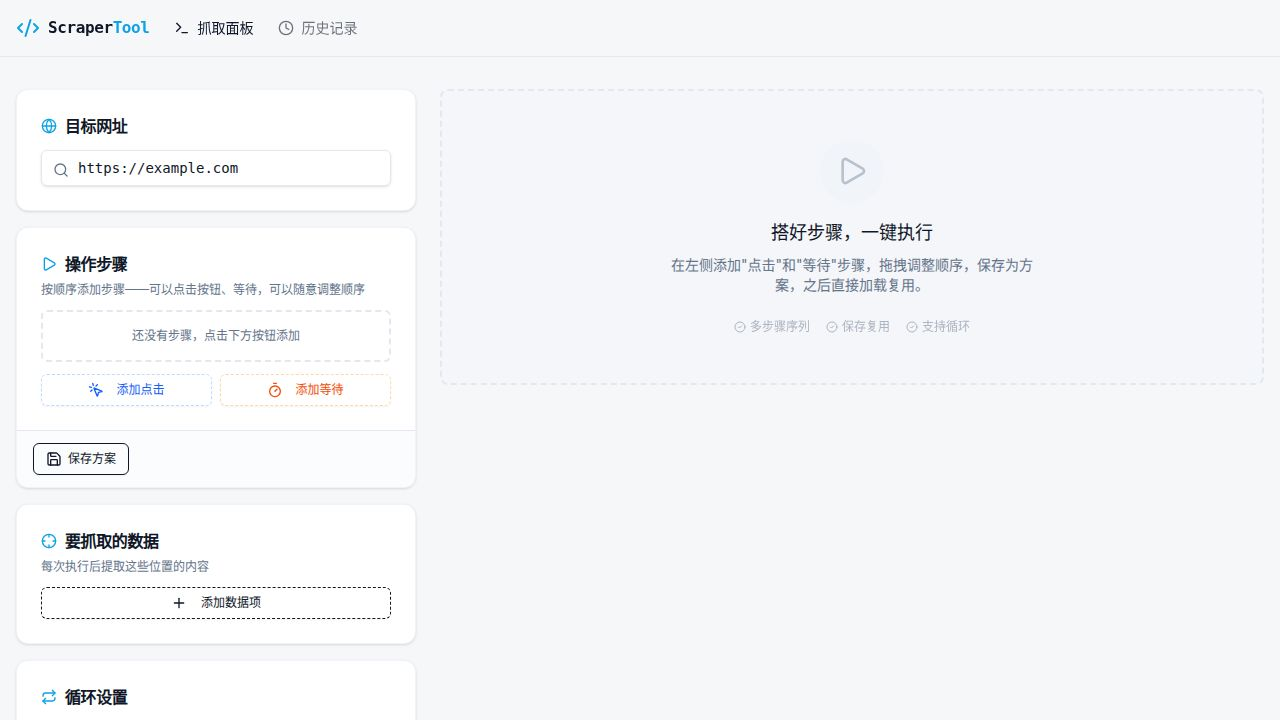
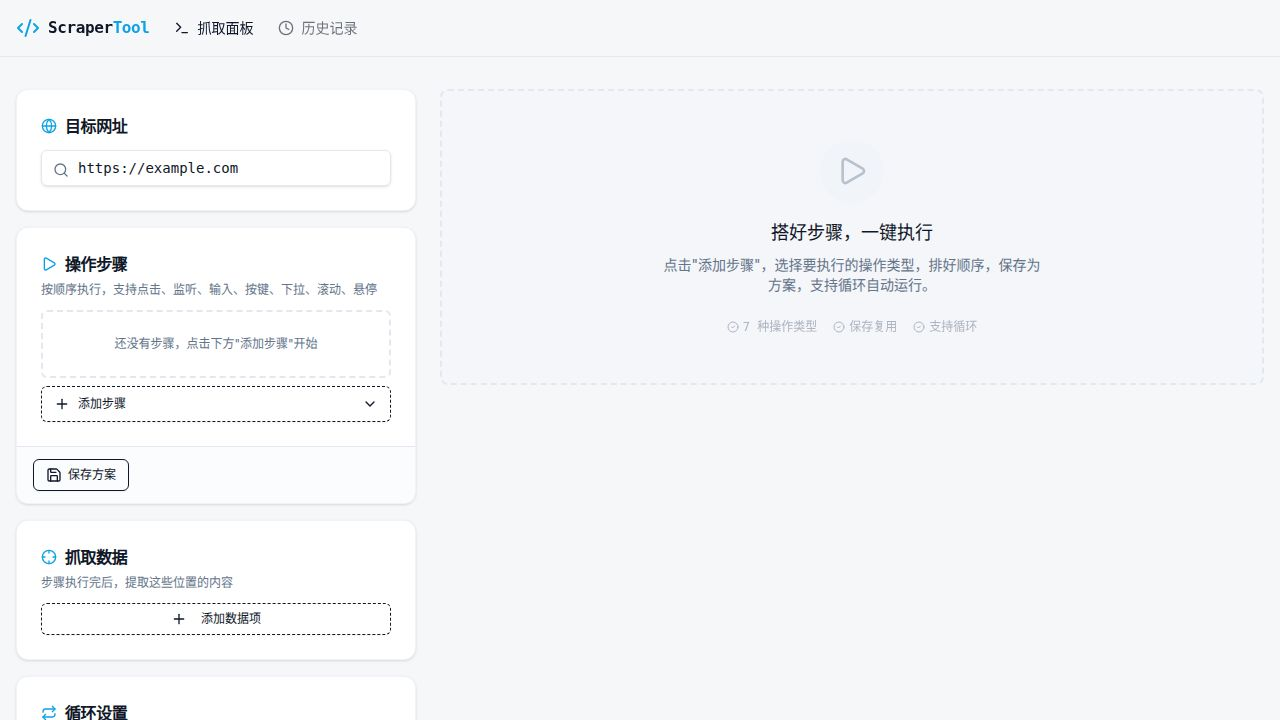
Add cross-website data extraction and population capabilities
Introduce new 'navigate' and 'capture' step types for cross-site scraping. 'Navigate' allows switching between websites within the same session, while 'capture' reads element data and stores it as a variable. The 'type' step is enhanced to support referencing these captured variables using `${varName}` syntax. This enables workflows where data from one site can be automatically filled into another.

Replit-Commit-Author: Agent
Replit-Commit-Session-Id: a0e9f660-d92f-431c-ae68-7a4e4ba918e7
Replit-Commit-Checkpoint-Type: full_checkpoint
Replit-Commit-Event-Id: 60a98646-9032-41d8-822b-ade838222687
Replit-Commit-Screenshot-Url: https://storage.googleapis.com/screenshot-production-us-central1/eb1950e1-c633-4936-86f3-e5783db79001/a0e9f660-d92f-431c-ae68-7a4e4ba918e7/aN5R0Al
Replit-Helium-Checkpoint-Created: true

diff --git a/artifacts/scraper-tool/src/pages/home.tsx b/artifacts/scraper-tool/src/pages/home.tsx
@@ -25,13 +25,15 @@ import type { ScrapeResult } from "@workspace/api-client-react/src/generated/api
 // ─── Step definitions ────────────────────────────────────────────────────────
 
 const STEP_TYPES = [
-  { type: "click",  label: "点击",     icon: MousePointerClick, color: "blue",   desc: "点击页面上的某个按钮或链接" },
-  { type: "listen", label: "监听",     icon: Eye,               color: "purple", desc: "等到某个元素出现/消失，或网络空闲" },
-  { type: "type",   label: "输入文字", icon: Type,              color: "green",  desc: "在输入框里填入文字" },
-  { type: "key",    label: "按键",     icon: Keyboard,          color: "orange", desc: "模拟键盘按键，如回车、Tab" },
-  { type: "select", label: "下拉选择", icon: ListOrdered,       color: "cyan",   desc: "选择下拉框中的某个选项" },
-  { type: "scroll", label: "滚动",     icon: MoveDown,          color: "pink",   desc: "滚动到指定元素位置" },
-  { type: "hover",  label: "悬停",     icon: Eye,               color: "yellow", desc: "将鼠标悬停在元素上" },
+  { type: "click",    label: "点击",     icon: MousePointerClick, color: "blue",   desc: "点击页面上的某个按钮或链接" },
+  { type: "listen",   label: "监听",     icon: Eye,               color: "purple", desc: "等到某个元素出现/消失，或网络空闲" },
+  { type: "capture",  label: "读取保存", icon: Crosshair,         color: "teal",   desc: "读取元素内容，保存为变量供后续步骤使用" },
+  { type: "navigate", label: "跳转网址", icon: Globe,             color: "indigo", desc: "在同一浏览器内跳转到另一个网址" },
+  { type: "type",     label: "输入文字", icon: Type,              color: "green",  desc: "在输入框填入文字，支持 ${变量名} 引用保存的值" },
+  { type: "key",      label: "按键",     icon: Keyboard,          color: "orange", desc: "模拟键盘按键，如回车、Tab" },
+  { type: "select",   label: "下拉选择", icon: ListOrdered,       color: "cyan",   desc: "选择下拉框中的某个选项" },
+  { type: "scroll",   label: "滚动",     icon: MoveDown,          color: "pink",   desc: "滚动到指定元素位置" },
+  { type: "hover",    label: "悬停",     icon: Eye,               color: "yellow", desc: "将鼠标悬停在元素上" },
 ] as const;
 
 type StepType = typeof STEP_TYPES[number]["type"];
@@ -39,6 +41,8 @@ type StepType = typeof STEP_TYPES[number]["type"];
 const COLOR_MAP: Record<string, { bg: string; border: string; bar: string; btn: string }> = {
   blue:   { bg: "bg-blue-50/60",   border: "border-blue-200",  bar: "bg-blue-400",   btn: "text-blue-600 border-blue-200 hover:bg-blue-50"   },
   purple: { bg: "bg-purple-50/60", border: "border-purple-200",bar: "bg-purple-400", btn: "text-purple-600 border-purple-200 hover:bg-purple-50"},
+  teal:   { bg: "bg-teal-50/60",   border: "border-teal-200",  bar: "bg-teal-400",   btn: "text-teal-600 border-teal-200 hover:bg-teal-50"   },
+  indigo: { bg: "bg-indigo-50/60", border: "border-indigo-200",bar: "bg-indigo-400", btn: "text-indigo-600 border-indigo-200 hover:bg-indigo-50"},
   green:  { bg: "bg-green-50/60",  border: "border-green-200", bar: "bg-green-400",  btn: "text-green-600 border-green-200 hover:bg-green-50" },
   orange: { bg: "bg-orange-50/60", border: "border-orange-200",bar: "bg-orange-400", btn: "text-orange-600 border-orange-200 hover:bg-orange-50"},
   cyan:   { bg: "bg-cyan-50/60",   border: "border-cyan-200",  bar: "bg-cyan-400",   btn: "text-cyan-600 border-cyan-200 hover:bg-cyan-50"   },
@@ -51,7 +55,7 @@ const COMMON_KEYS = ["Enter", "Tab", "Escape", "Space", "ArrowDown", "ArrowUp", 
 // ─── Zod schemas ─────────────────────────────────────────────────────────────
 
 const stepSchema = z.object({
-  type: z.enum(["click", "listen", "type", "key", "select", "scroll", "hover"]),
+  type: z.enum(["click", "listen", "type", "key", "select", "scroll", "hover", "navigate", "capture"]),
   selector: z.string().optional(),
   waitMs: z.number().optional(),
   waitForPopupClose: z.boolean().optional(),
@@ -61,6 +65,8 @@ const stepSchema = z.object({
   text: z.string().optional(),
   key: z.string().optional(),
   value: z.string().optional(),
+  url: z.string().optional(),
+  varName: z.string().optional(),
 });
 
 type Step = z.infer<typeof stepSchema>;
@@ -96,13 +102,15 @@ const sleep = (ms: number) => new Promise<void>((r) => setTimeout(r, ms));
 // ─── Default step factories ───────────────────────────────────────────────────
 
 const defaults: Record<StepType, Partial<Step>> = {
-  click:  { type: "click",  selector: "", waitMs: 1000, waitForPopupClose: false, popupTimeoutMs: 30000 },
-  listen: { type: "listen", selector: "", listenFor: "appear", listenTimeout: 15000 },
-  type:   { type: "type",   selector: "", text: "" },
-  key:    { type: "key",    key: "Enter", waitMs: 500 },
-  select: { type: "select", selector: "", value: "" },
-  scroll: { type: "scroll", selector: "" },
-  hover:  { type: "hover",  selector: "", waitMs: 500 },
+  click:    { type: "click",    selector: "", waitMs: 1000, waitForPopupClose: false, popupTimeoutMs: 30000 },
+  listen:   { type: "listen",   selector: "", listenFor: "appear", listenTimeout: 15000 },
+  capture:  { type: "capture",  selector: "", varName: "" },
+  navigate: { type: "navigate", url: "", waitMs: 1500 },
+  type:     { type: "type",     selector: "", text: "" },
+  key:      { type: "key",      key: "Enter", waitMs: 500 },
+  select:   { type: "select",   selector: "", value: "" },
+  scroll:   { type: "scroll",   selector: "" },
+  hover:    { type: "hover",    selector: "", waitMs: 500 },
 };
 
 // ─── Main component ───────────────────────────────────────────────────────────
@@ -288,6 +296,34 @@ export default function Home() {
                             )} />
                           </>}
 
+                          {s?.type === "capture" && <>
+                            <Field label="要读取的元素选择器">
+                              <Input placeholder="例：#shortid 或 .price-value" className="font-mono text-xs h-7"
+                                {...form.register(`steps.${index}.selector`)} />
+                            </Field>
+                            <Field label="保存为变量名">
+                              <Input placeholder="例：邮箱 或 当前价格" className="text-xs h-7"
+                                {...form.register(`steps.${index}.varName`)} />
+                            </Field>
+                            <p className="text-xs text-muted-foreground bg-teal-50 border border-teal-200 rounded px-2 py-1.5">
+                              保存后，在"输入文字"步骤里用 <code className="font-mono">{"${变量名}"}</code> 引用这个值
+                            </p>
+                          </>}
+
+                          {s?.type === "navigate" && <>
+                            <Field label="跳转到的网址">
+                              <Input placeholder="例：https://b-website.com/form" className="font-mono text-xs h-7"
+                                {...form.register(`steps.${index}.url`)} />
+                            </Field>
+                            <Field label="跳转后等待页面加载（毫秒）">
+                              <Input type="number" className="font-mono text-xs h-7"
+                                {...form.register(`steps.${index}.waitMs`, { valueAsNumber: true })} />
+                            </Field>
+                            <p className="text-xs text-muted-foreground bg-indigo-50 border border-indigo-200 rounded px-2 py-1.5">
+                              在同一个浏览器窗口内跳转，之前保存的变量依然有效
+                            </p>
+                          </>}
+
                           {s?.type === "listen" && <>
                             <Field label="监听条件">
                               <select className="w-full border rounded px-2 py-1 text-xs bg-background"
@@ -315,9 +351,12 @@ export default function Home() {
                                 {...form.register(`steps.${index}.selector`)} />
                             </Field>
                             <Field label="要输入的文字">
-                              <Input placeholder="例：hello@example.com" className="text-xs h-7"
+                              <Input placeholder='例：hello@example.com 或 ${邮箱}' className="text-xs h-7"
                                 {...form.register(`steps.${index}.text`)} />
                             </Field>
+                            <p className="text-xs text-muted-foreground bg-green-50 border border-green-200 rounded px-2 py-1.5">
+                              用 <code className="font-mono">{"${变量名}"}</code> 引用"读取保存"步骤里存的值
+                            </p>
                           </>}
 
                           {s?.type === "key" && <>
@@ -657,7 +696,7 @@ export default function Home() {
               <h3 className="text-lg font-medium text-foreground mb-2">搭好步骤，一键执行</h3>
               <p className="text-sm max-w-sm mb-6">点击"添加步骤"，选择要执行的操作类型，排好顺序，保存为方案，支持循环自动运行。</p>
               <div className="flex items-center gap-4 text-xs font-mono opacity-50">
-                <div className="flex items-center gap-1"><CheckCircle2 className="h-3 w-3" />7 种操作类型</div>
+                <div className="flex items-center gap-1"><CheckCircle2 className="h-3 w-3" />9 种操作类型</div>
                 <div className="flex items-center gap-1"><CheckCircle2 className="h-3 w-3" />保存复用</div>
                 <div className="flex items-center gap-1"><CheckCircle2 className="h-3 w-3" />支持循环</div>
               </div>

diff --git a/artifacts/api-server/src/routes/scraper.ts b/artifacts/api-server/src/routes/scraper.ts
@@ -11,7 +11,7 @@ const CustomSelectorSchema = z.object({
 });
 
 const ScrapeStepSchema = z.object({
-  type: z.enum(["click", "listen", "type", "key", "select", "scroll", "hover"]),
+  type: z.enum(["click", "listen", "type", "key", "select", "scroll", "hover", "navigate", "capture"]),
   selector: z.string().optional(),
   waitMs: z.number().optional(),
   waitForPopupClose: z.boolean().optional(),
@@ -21,6 +21,8 @@ const ScrapeStepSchema = z.object({
   text: z.string().optional(),
   key: z.string().optional(),
   value: z.string().optional(),
+  url: z.string().optional(),
+  varName: z.string().optional(),
 });
 
 const ScrapeOptionsSchema = z.object({
@@ -84,6 +86,12 @@ router.post("/scrape", async (req, res) => {
     await page.waitForTimeout(1500);
 
     let clickedElement: string | undefined;
+    // Captured variables: populated by "capture" steps, consumed by "type" steps via ${varName}
+    const vars: Record<string, string> = {};
+
+    // Resolve ${varName} placeholders in a string
+    const resolveVars = (str: string): string =>
+      str.replace(/\$\{([^}]+)\}/g, (_, name) => vars[name.trim()] ?? "");
 
     // Build the effective step list: prefer `steps` array; fall back to legacy clickSelector
     const effectiveSteps = options.steps && options.steps.length > 0
@@ -147,12 +155,59 @@ router.post("/scrape", async (req, res) => {
           req.log.warn({ selector }, "Click step: element not found");
         }
 
+      } else if (step.type === "navigate" && step.url?.trim()) {
+        const targetUrl = resolveVars(step.url.trim());
+        req.log.info({ url: targetUrl }, "Navigating to new URL");
+        await page.goto(targetUrl, { waitUntil: "domcontentloaded", timeout: 20000 });
+        await page.waitForTimeout(step.waitMs ?? 1500);
+
+      } else if (step.type === "capture" && step.selector?.trim() && step.varName?.trim()) {
+        const selector = step.selector.trim();
+        const varName = step.varName.trim();
+        try {
+          // Check main page first, then iframes
+          let captured = await page.evaluate((sel) => {
+            const el = document.querySelector(sel);
+            if (!el) return null;
+            if (el instanceof HTMLInputElement || el instanceof HTMLTextAreaElement || el instanceof HTMLSelectElement)
+              return el.value?.trim() || el.getAttribute("placeholder") || "";
+            return el.textContent?.trim() || "";
+          }, selector);
+
+          if (!captured) {
+            for (const frame of page.frames()) {
+              if (frame === page.mainFrame()) continue;
+              try {
+                const v = await frame.evaluate((sel) => {
+                  const el = document.querySelector(sel);
+                  if (!el) return null;
+                  if (el instanceof HTMLInputElement || el instanceof HTMLTextAreaElement || el instanceof HTMLSelectElement)
+                    return el.value?.trim() || "";
+                  return el.textContent?.trim() || "";
+                }, selector);
+                if (v) { captured = v; break; }
+              } catch { /* cross-origin */ }
+            }
+          }
+
+          if (captured) {
+            vars[varName] = captured;
+            req.log.info({ selector, varName, value: captured }, "Captured variable");
+          } else {
+            req.log.warn({ selector, varName }, "Capture: element not found");
+          }
+          if (step.waitMs) await page.waitForTimeout(step.waitMs);
+        } catch {
+          req.log.warn({ selector }, "Capture step failed");
+        }
+
       } else if (step.type === "type" && step.selector?.trim() && step.text) {
         const selector = step.selector.trim();
+        const resolvedText = resolveVars(step.text);
         try {
           await page.waitForSelector(selector, { timeout: 8000 });
-          await page.fill(selector, step.text);
-          req.log.info({ selector, text: step.text }, "Typed text");
+          await page.fill(selector, resolvedText);
+          req.log.info({ selector, text: resolvedText }, "Typed text");
           if (step.waitMs) await page.waitForTimeout(step.waitMs);
         } catch {
           req.log.warn({ selector }, "Type step: element not found");
